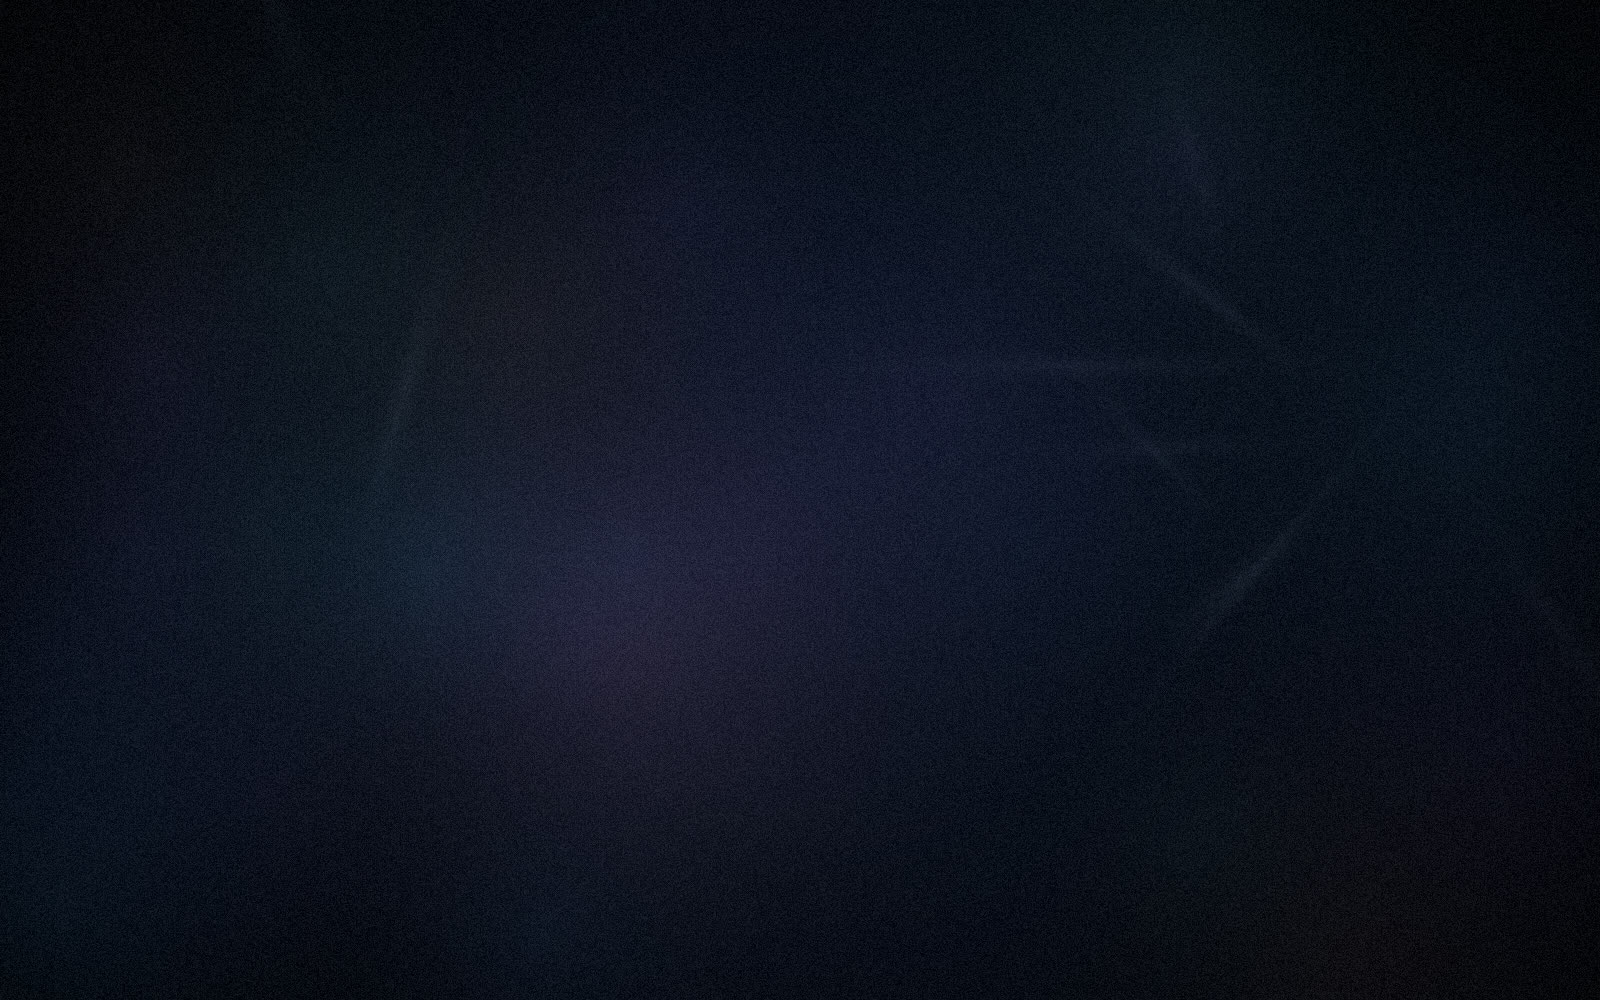
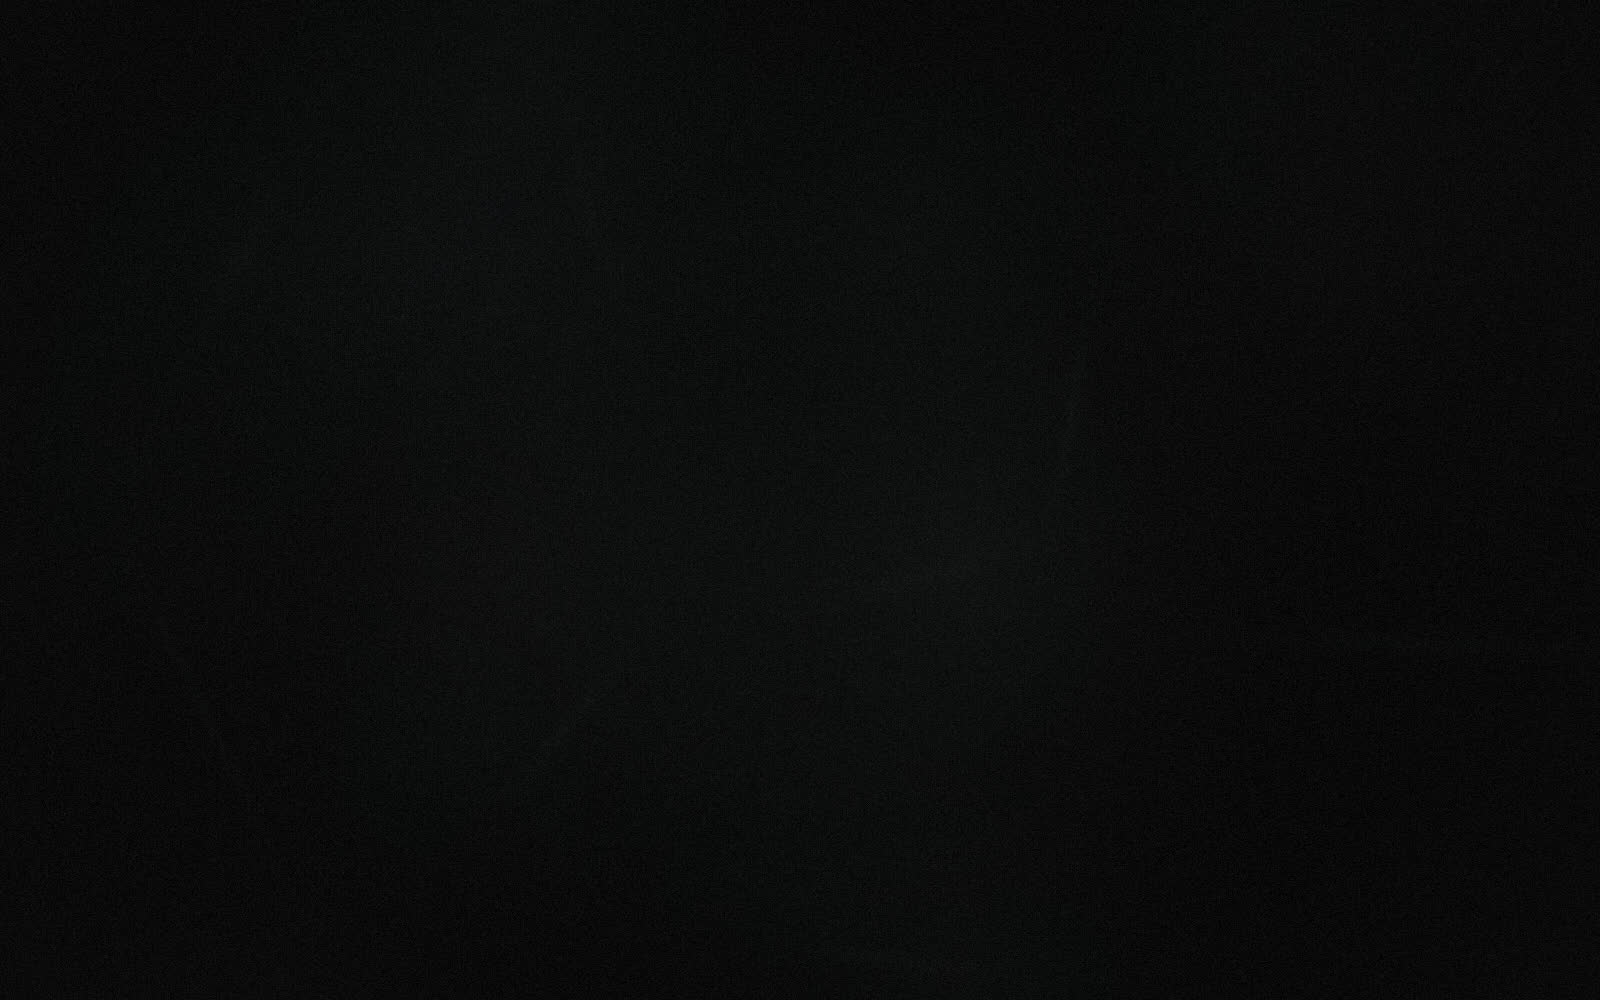
Hero water: calmer ripples (lower perturbance/frequency/strength, non-interactive); black texture + black hero bg to blend with sections below

diff --git a/js/main.js b/js/main.js
@@ -28,17 +28,17 @@ function initSite(){
       if(!el || !window.jQuery || !jQuery.fn || !jQuery.fn.ripples) return;
       const $el = jQuery(el);
       try{
-        $el.ripples({ resolution: 512, dropRadius: 22, perturbance: 0.03, interactive: true });
+        $el.ripples({ resolution: 512, dropRadius: 20, perturbance: 0.008, interactive: false });
       }catch(e){ return; } // WebGL 미지원 시 정적 다크 배경 유지
       if(matchMedia('(prefers-reduced-motion: reduce)').matches){ try{ $el.ripples('pause'); }catch(e){} return; }
-      // 스스로 떨어지는 빗방울
+      // 스스로 떨어지는 빗방울 (잔잔하게 — merryon 레퍼런스처럼)
       function drop(){
         const w=el.clientWidth, h=el.clientHeight; if(!w||!h) return;
         const x=Math.random()*w, y=Math.random()*h;
-        const r=14+Math.random()*18, s=0.04+Math.random()*0.05;
+        const r=10+Math.random()*10, s=0.012+Math.random()*0.016;
         try{ $el.ripples('drop', x, y, r, s); }catch(e){}
       }
-      setInterval(()=>{ drop(); if(Math.random()<0.4) setTimeout(drop, 130); }, 560);
+      setInterval(drop, 2400);  // 약 2.4초에 한 방울씩, 은은하게
       // 화면 밖이면 렌더 정지(성능)
       const hero=document.getElementById('top');
       addEventListener('scroll', ()=>{ const rc=hero.getBoundingClientRect();

diff --git a/css/style.css b/css/style.css
@@ -43,9 +43,9 @@
   @media(max-width:600px){ .dock{ gap:1px; padding:5px; } .dock a{ padding:8px 11px; font-size:12px; } }
 
   /* ===== HERO (벌집 배경 + 이름 분할 + 인물) ===== */
-  .hero{ position:relative; min-height:100vh; display:flex; align-items:center; justify-content:center; overflow:hidden; padding:120px 24px 150px; background:radial-gradient(120% 100% at 50% 30%, #10131c, #07080c); }
+  .hero{ position:relative; min-height:100vh; display:flex; align-items:center; justify-content:center; overflow:hidden; padding:120px 24px 150px; background:#0a0a0a; }
   .hero-flow{ position:absolute; inset:0; z-index:0; width:100%; height:100%; display:block; }
-  .hero-water{ position:absolute; inset:0; z-index:0; background:#06070c url('../assets/hero-bg.jpg') center/cover no-repeat; }
+  .hero-water{ position:absolute; inset:0; z-index:0; background:#0a0a0a url('../assets/hero-bg.jpg') center/cover no-repeat; }
   .hero-water canvas{ display:block; }
   /* yeqq 스타일 히어로: 인물 위 대형 텍스트 색반전 + 글리치 + 모노 라벨 */
   .hero-corner{ position:absolute; left:0; right:0; display:flex; justify-content:space-between; padding:0 clamp(20px,4vw,44px); z-index:5; }
